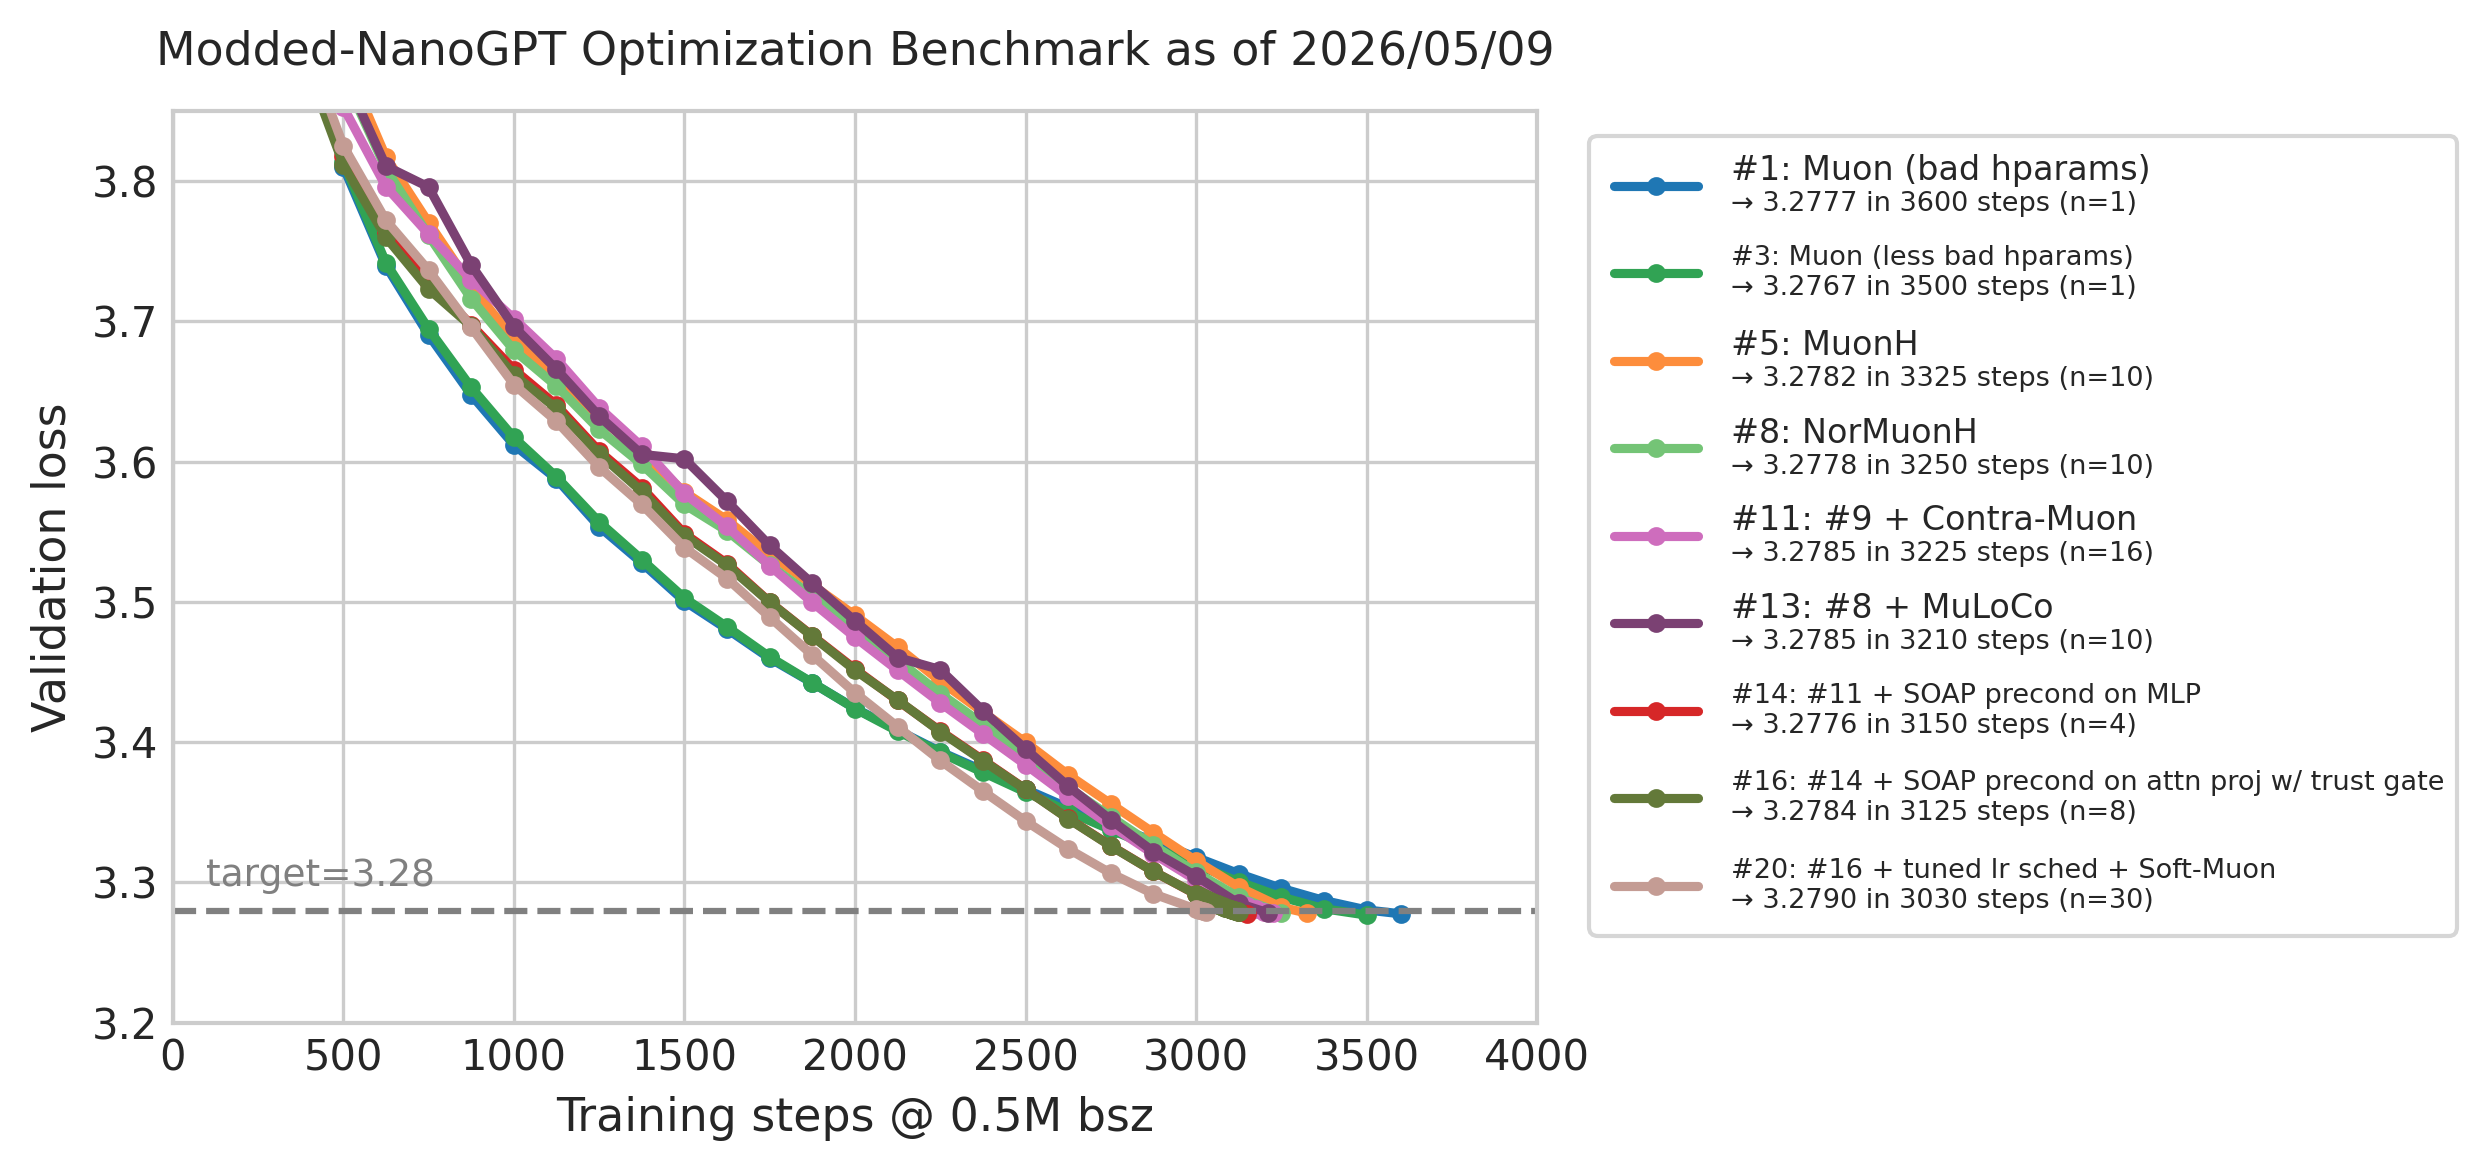
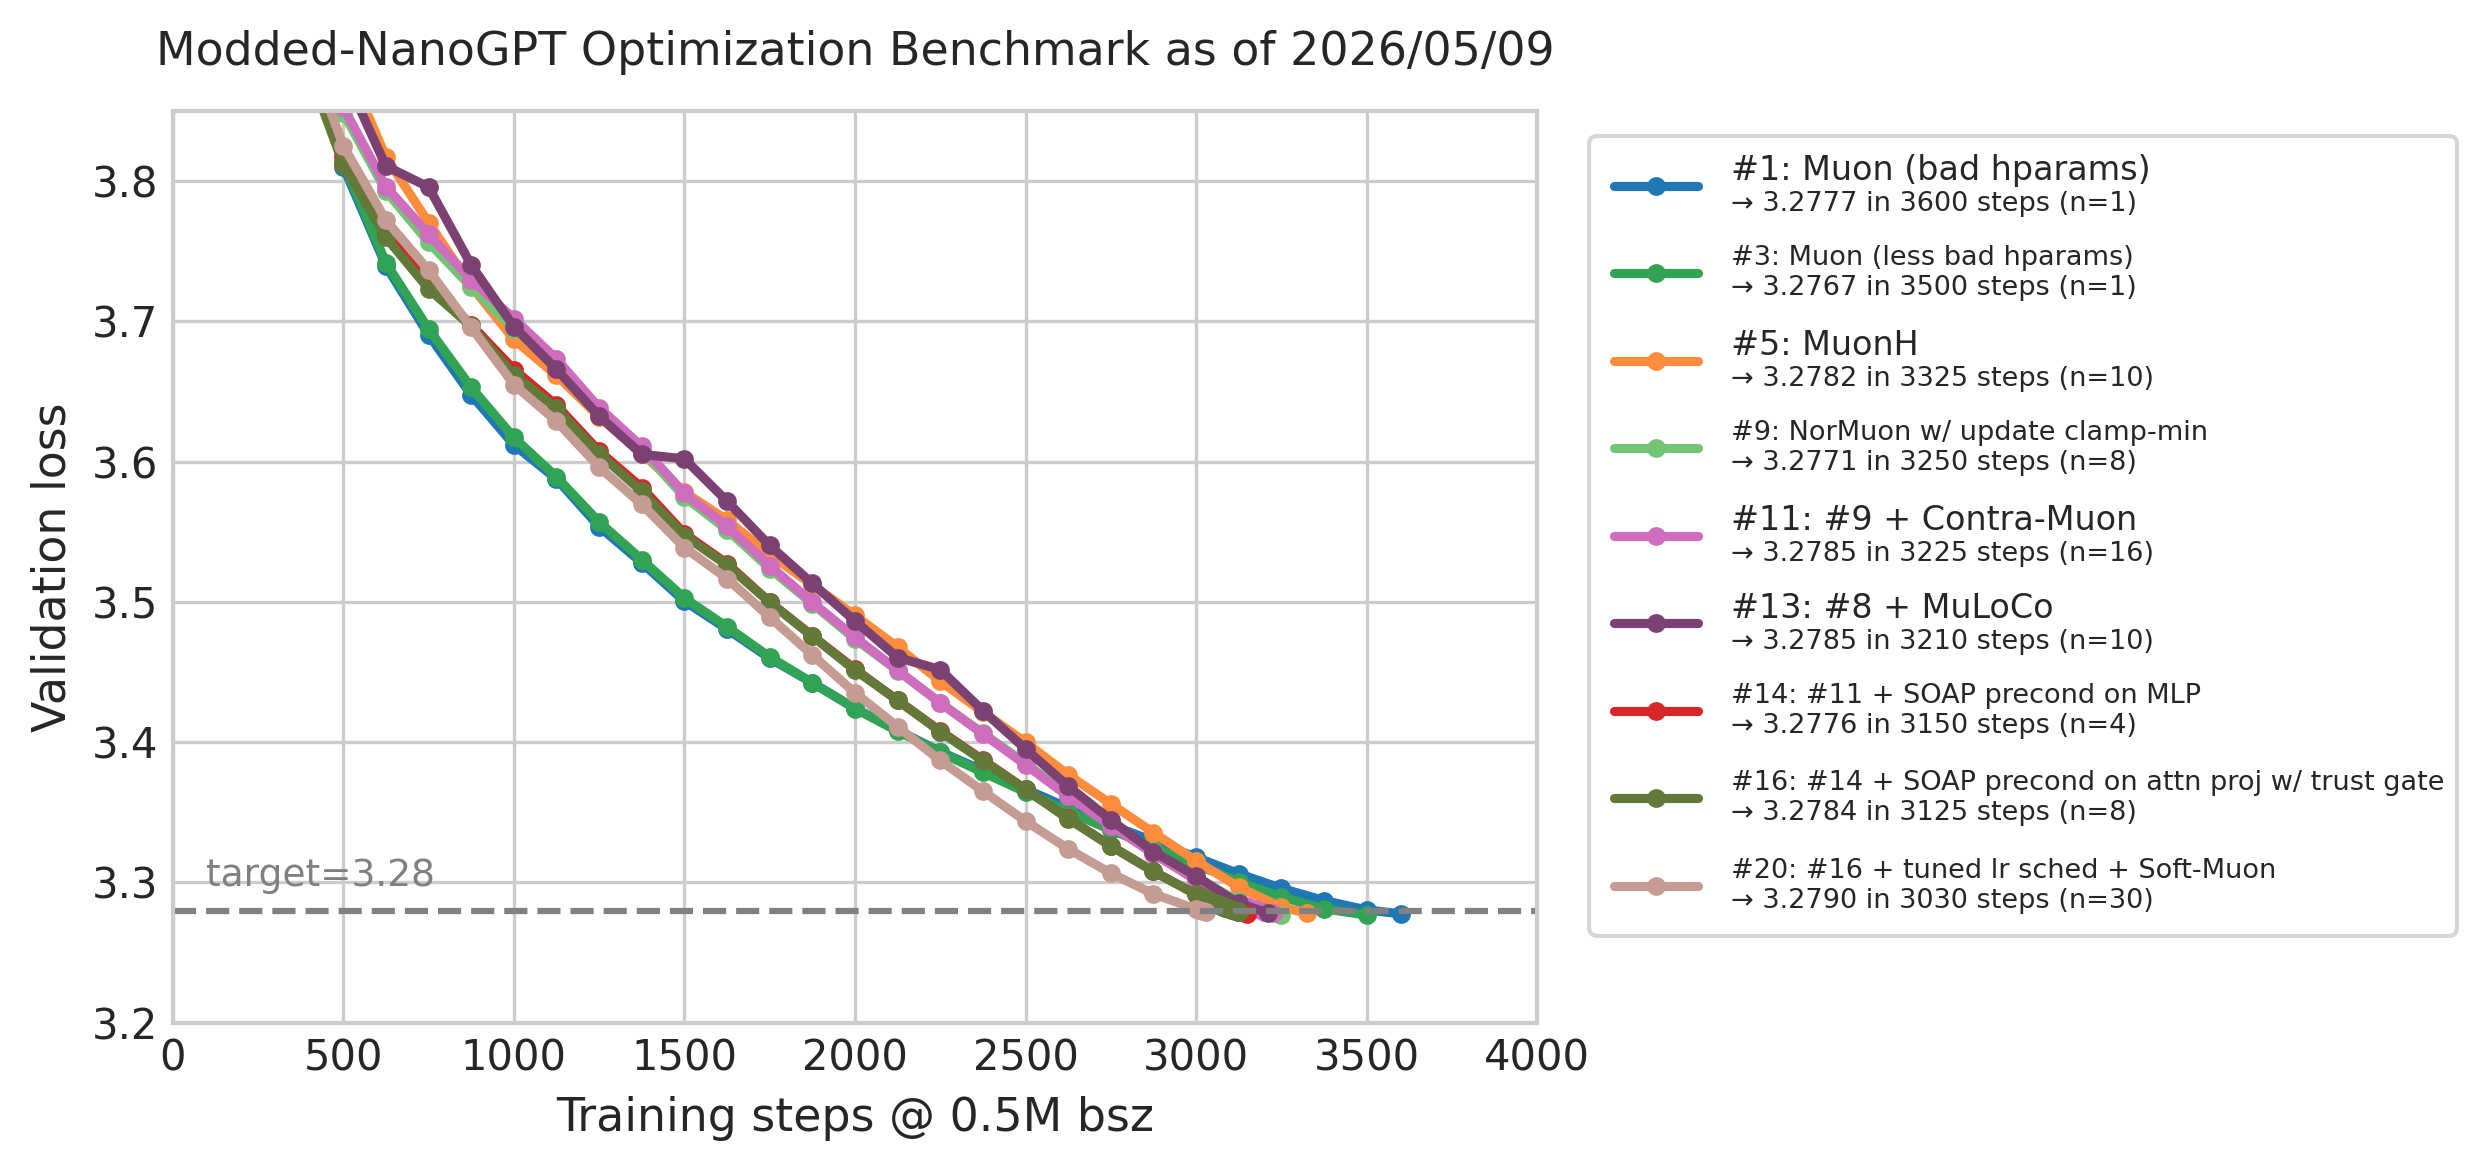
.

diff --git a/records/track_3_optimization/make_figures.py b/records/track_3_optimization/make_figures.py
@@ -196,7 +196,7 @@ for suffix in ["wr", "best"]:
             1: 'Muon (bad hparams)',
             3: 'Muon (less bad hparams)',
             5: 'MuonH',
-            8: 'NorMuonH',
+            9: 'NorMuon w/ update clamp-min',
             11: '#9 + Contra-Muon',
             13: '#8 + MuLoCo',
             14: '#11 + SOAP precond on MLP',

diff --git a/records/track_3_optimization/README.md b/records/track_3_optimization/README.md
@@ -41,8 +41,8 @@ If it fails to reproduce (i.e., we get statistical evidence that its mean is abo
 | 5 | 3325(!) | 3.2782 (n=10)✓ | [MuonH](https://psychedelic-sunstone-851.notion.site/Fantastic-Pretraining-Optimizers-and-Where-to-Find-Them-2-1-Hyperball-Optimization-2e924306e6f280e7a5ffee00eb40a0dd) (Muon + hyperball constraint on hidden matrices) with per-module init std (attn.proj std=.026, mlp.proj std=.031, mlp.fc std=.031, qkv default), lr=.018 h_cooldown_frac=1.0 aux_cooldown_frac=.4 | 2026/04/30 | [log](results/20260430_muonh/9319c798-6643-464a-b407-b05468e468f5.txt) | [PR](https://github.com/KellerJordan/modded-nanogpt/pull/267) | @kaiyue-wen |
 | 6 | 3375 | 3.2788 (n=20)✓ | Muon with aux Adam, lr=.025 wd=.025 | 2026/05/01 | [log](results/51ece938-03c5-4343-8dcc-3f3336b07008.txt) | [PR](https://github.com/KellerJordan/modded-nanogpt/pull/271) | @nilin, @alint77 |
 | 7 | 3325 | 3.2752 (n=1)✓ | [Muon²](https://arxiv.org/abs/2604.09967) with aux Adam, lr=.10 wd=.0125 β₂=.95 ε=1e-10 | 2026/04/29 | [log](results/20260501_muonsq/bb903816-ea27-4f5f-8028-c963d38c6a7f.txt) | [PR](https://github.com/KellerJordan/modded-nanogpt/pull/266) | @wilsoncwu |
-| 8 | 3250(!) | 3.2778 (n=10)✓ | [NorMuon](https://arxiv.org/abs/2510.05491)[H](https://psychedelic-sunstone-851.notion.site/Fantastic-Pretraining-Optimizers-and-Where-to-Find-Them-2-1-Hyperball-Optimization-2e924306e6f280e7a5ffee00eb40a0dd) (Muon NS direction + Adafactor-style row/col variance preconditioning, then hyperball constraint on hidden matrices) with per-module init std (attn.proj std=.026, mlp.proj std=.031, mlp.fc std=.031, qkv default), lr=.018 mu=0.95 beta2=0.95 h_cooldown_frac=1.0 aux_cooldown_frac=.4, end 25 steps early | 2026/04/30 | [log](results/20260430_normuonh/f45b5dcf-16bb-4e83-b5c7-4ef4981f0e9f.txt)| [PR](https://github.com/KellerJordan/modded-nanogpt/pull/273) | @kaiyue-wen |
-| 9 | 3250 | 3.2771 (n=8)✓ | NorMuon with aux Adam + u/w-floor (wd-free strategy that clamps ‖u‖\_F / ‖w‖\_F to 0.35), lr=.0375 | 2026/04/29 | [log](results/20260501_skylight001/f78af80a-2ba3-4cf7-b9f7-e6e56ff2c54d.txt) | [PR](https://github.com/KellerJordan/modded-nanogpt/pull/274) | @kumarkrishna |
+| 8 | 3250 | 3.2778 (n=10)✓ | [NorMuon](https://arxiv.org/abs/2510.05491)[H](https://psychedelic-sunstone-851.notion.site/Fantastic-Pretraining-Optimizers-and-Where-to-Find-Them-2-1-Hyperball-Optimization-2e924306e6f280e7a5ffee00eb40a0dd) (Muon NS direction + Adafactor-style row/col variance preconditioning, then hyperball constraint on hidden matrices) with per-module init std (attn.proj std=.026, mlp.proj std=.031, mlp.fc std=.031, qkv default), lr=.018 mu=0.95 beta2=0.95 h_cooldown_frac=1.0 aux_cooldown_frac=.4, end 25 steps early | 2026/04/30 | [log](results/20260430_normuonh/f45b5dcf-16bb-4e83-b5c7-4ef4981f0e9f.txt)| [PR](https://github.com/KellerJordan/modded-nanogpt/pull/273) | @kaiyue-wen |
+| 9 | 3250(!) | 3.2771 (n=8)✓ | NorMuon with aux Adam + u/w-floor (wd-free strategy that clamps ‖u‖\_F / ‖w‖\_F to 0.35), lr=.0375 | 2026/04/29 | [log](results/20260501_skylight001/f78af80a-2ba3-4cf7-b9f7-e6e56ff2c54d.txt) | [PR](https://github.com/KellerJordan/modded-nanogpt/pull/274) | @kumarkrishna |
 | 10 | 3250 | 3.2789 (n=20)✓ | NorMuon lr=0.035 wd=0.025, end 50 steps early | 2026/05/03 | [log](results/20260503_normuon/e0d0185f-ccb8-426d-8265-a4e762ec69f6.txt) | [PR](https://github.com/KellerJordan/modded-nanogpt/pull/276) | @lliu606 (note: NorMuon author) |
 | 11 | 3225(!) | 3.2785 (n=16)✓ | Setup from #9 plus [Contra-Muon](https://github.com/nilin/contra-muon) technique (note: not [statsig](#pairwise-statistical-significance) vs #9) | 2026/05/01 | [log](results/20260501_contra_muon/08cd60f9-99e2-4e28-b1ac-19136dd42a05.txt) | [PR](https://github.com/KellerJordan/modded-nanogpt/pull/275) | @nilin |
 | 12 | 3325 | 3.2790 (n=20)✓ | Muon with aux Adam, lr=.035 wd=.025 following #10, end 25 steps early following #8 | 2026/05/03 | [log](results/1bd8db7a-f3a3-4195-856d-cab7e0816443.txt) | N/A | @kellerjordan0 |
